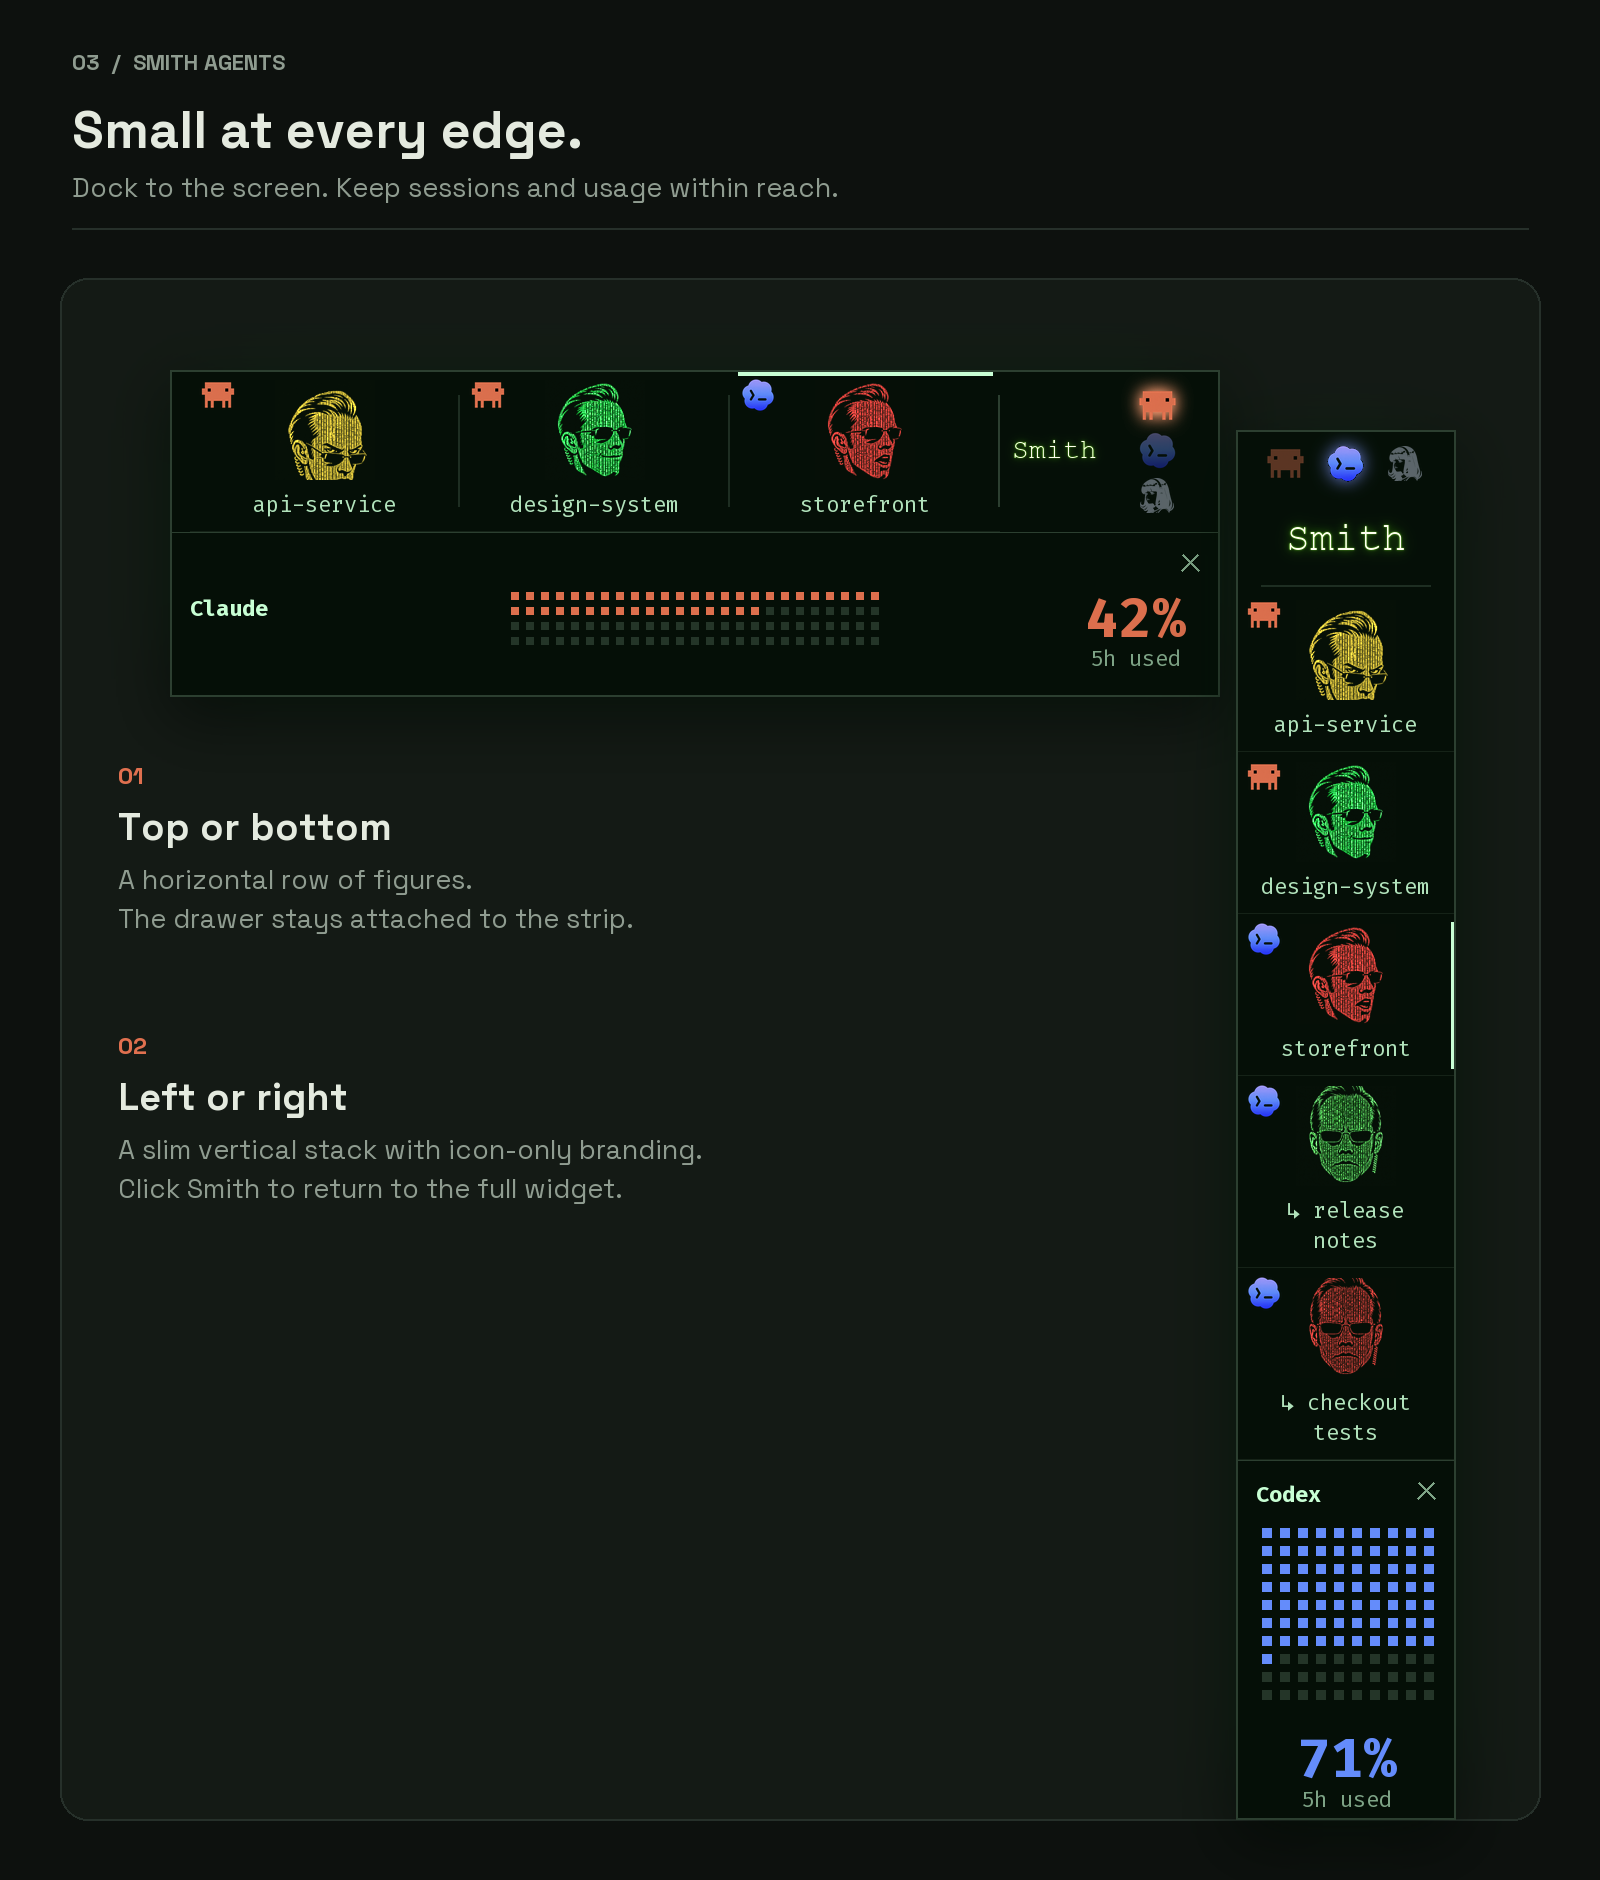
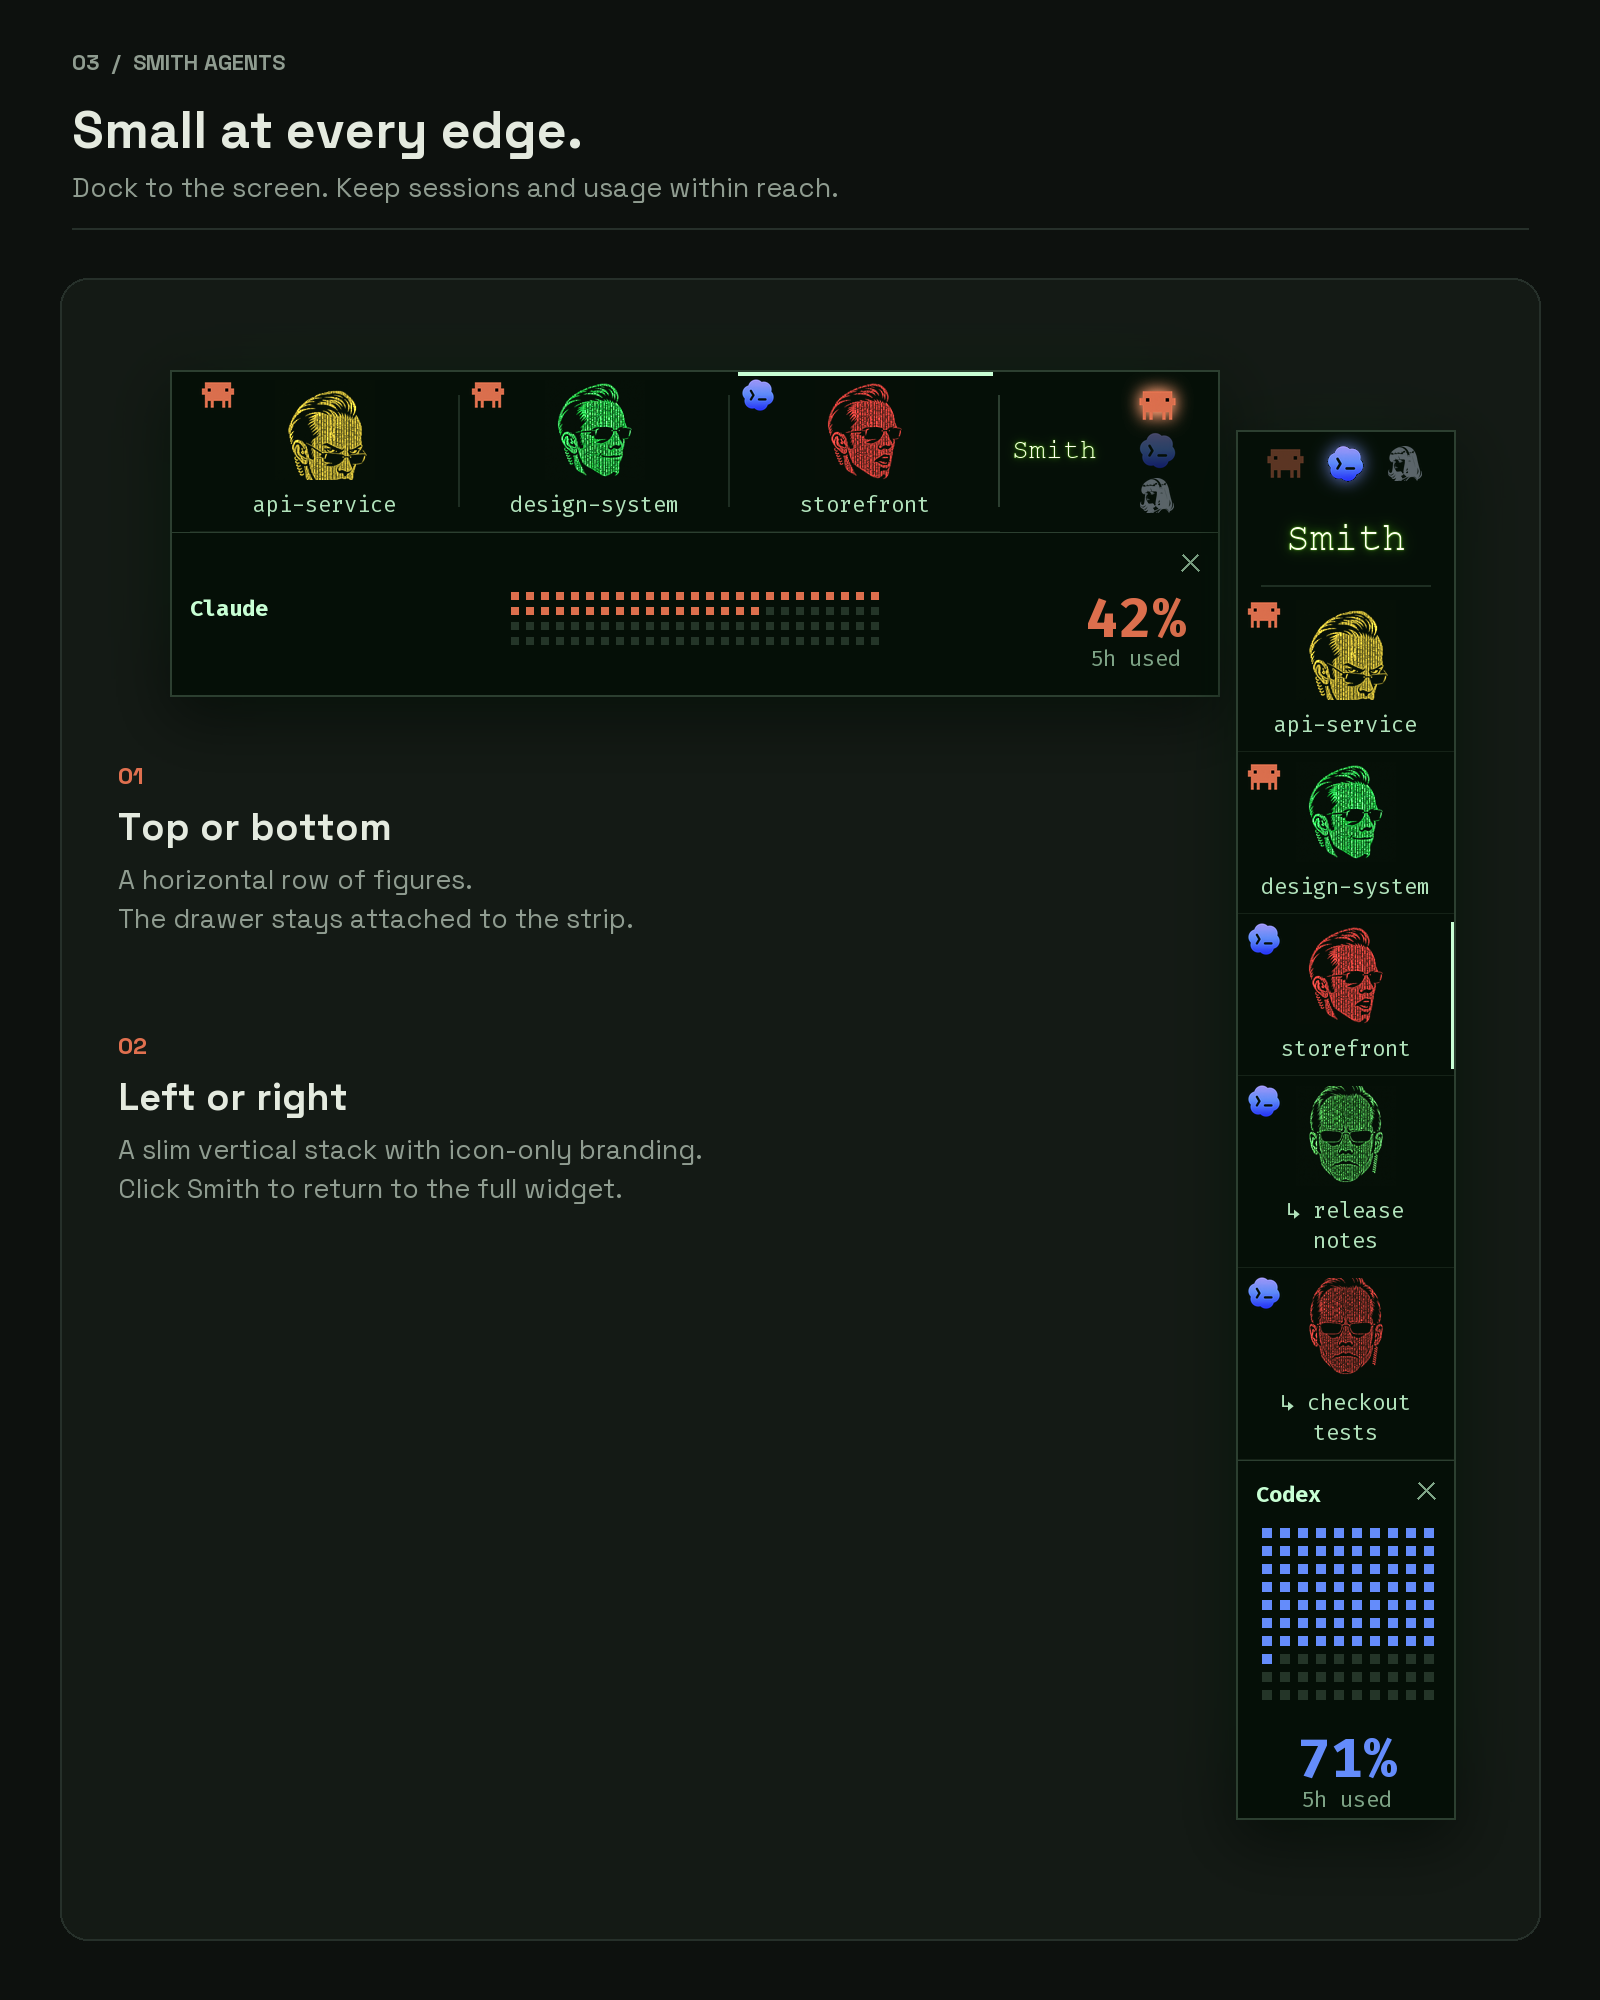
Keep the tucked rail inside the desktop frame on the README sheet
The vertical rail ran past the frame's bottom edge and its shadow was
clipped by the canvas. The sheet now leaves room for the rail below.

diff --git a/tools/render_readme_images.py b/tools/render_readme_images.py
@@ -277,7 +277,8 @@ def compose_usage(parts):
 def compose_tuck(parts):
     side = load(parts, "right-codex")
     top = load(parts, "top-claude")
-    height = max(1220, side.height + 330)
+    # The rail sits 350 down; leave it 40 inside the frame, which ends 60 up.
+    height = max(1220, side.height + 450)
     canvas, pen = sheet(height, "03", "Small at every edge.",
                         "Dock to the screen. Keep sessions and usage within reach.")
     # A desktop frame, not an editor window: rails belong to the monitor edges.
